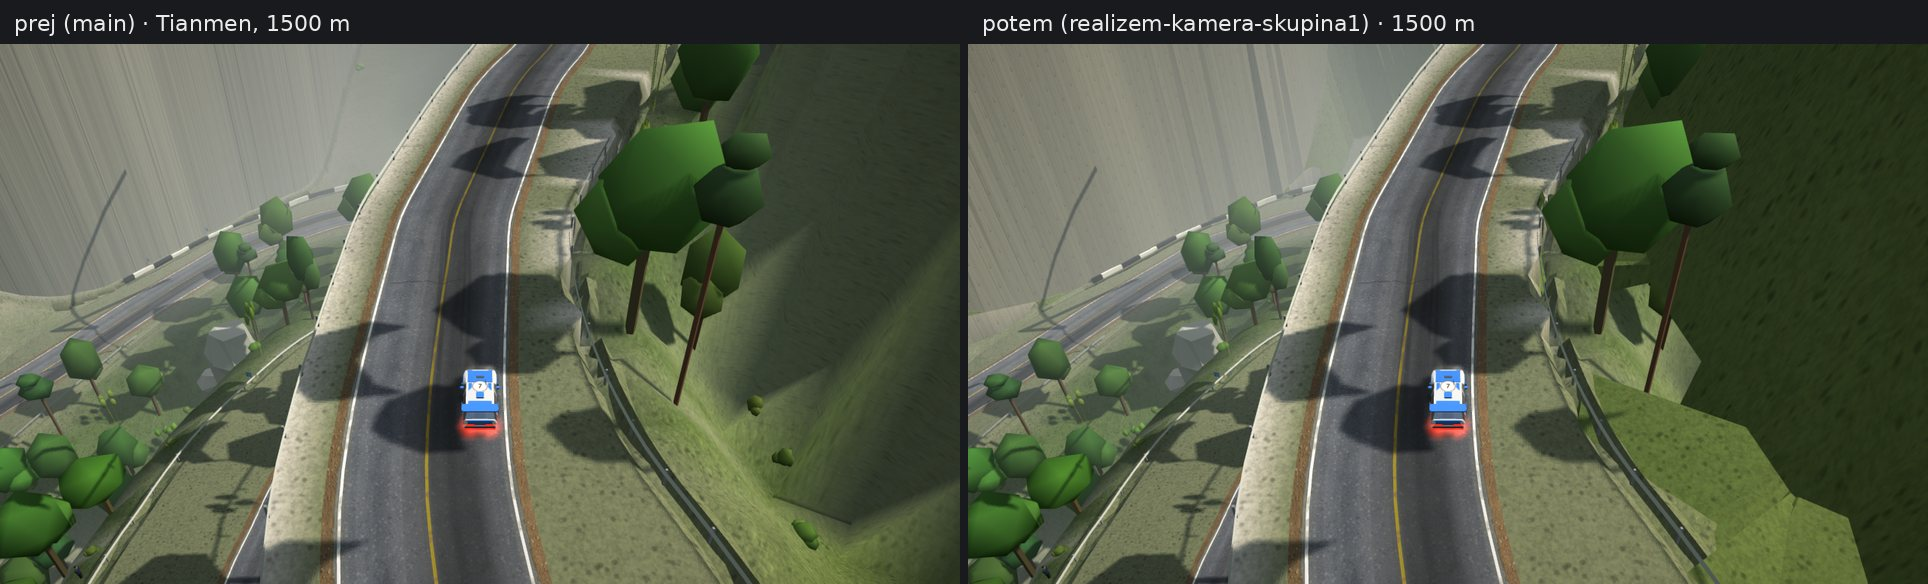
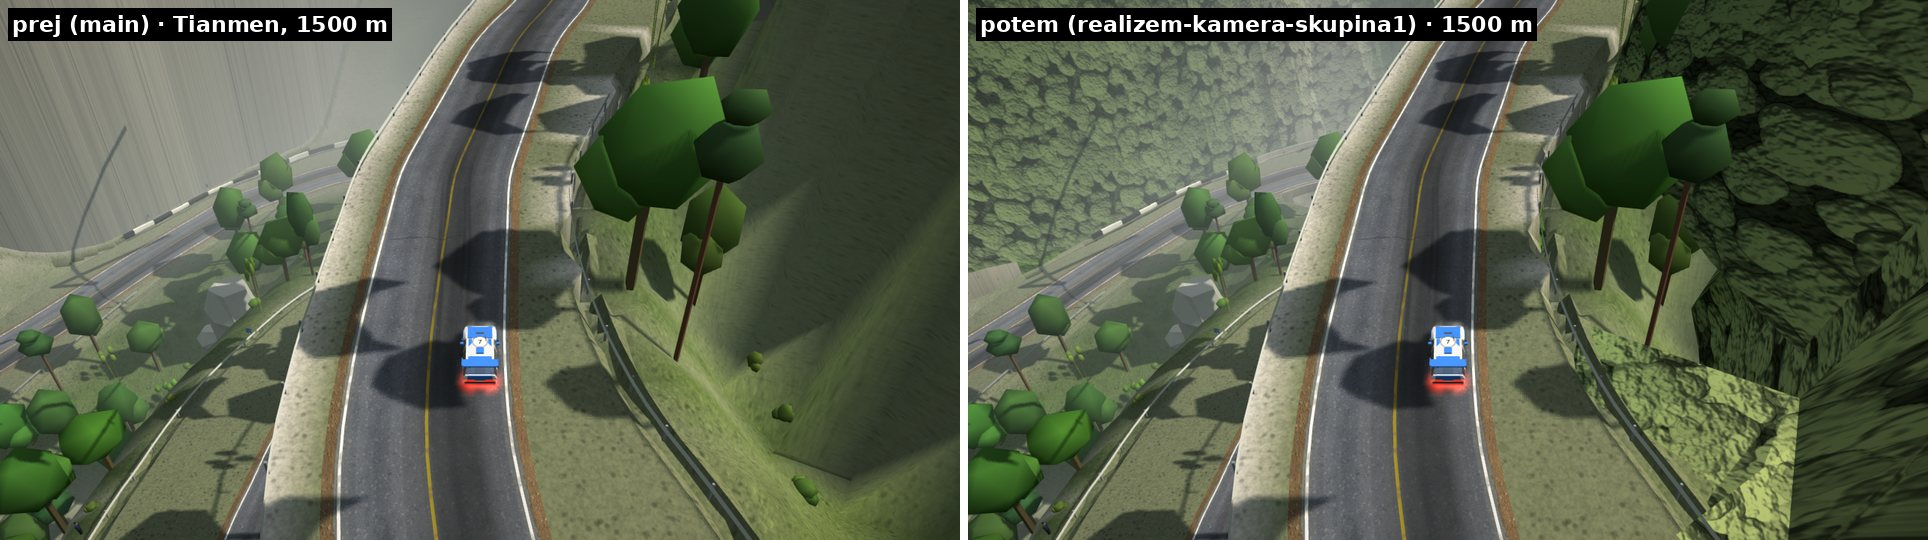
Realizem kamera, skupina 1: Tianmen, porasla kraška stena pod zidom pri ~2200 m
Kjer je stena pod krakom višja od 8,5 m (krak spodaj 50–70 m niže), je zid
samo zgornjih 6 m, spodaj pa porasla kraška stena: barve in tekstura brežine,
apnenec skozi zelenje, rahlo izbočena (dva pasova). Pri 2390 m globoke reže ni
(prerezi: najniže ~1 m pod cesto); ostane 4–8 m oporni zid zgornjega kraka.
Slike prej/potem za 1500, 2200 in 2390 m; zlato samo za Tianmen.

Claude-Session: https://claude.ai/code/session_01WbgGzusxUpMLC4NsmPdbW6

diff --git a/js/world-realizem1.js b/js/world-realizem1.js
@@ -364,6 +364,9 @@
     // the cost of a profile: the walls' height (a cut face a little more), the steeper slope a little more; the plain wall down to the floor is the last resort
     const cost = (r, H) => !r ? 1e9 : r.full ? H + 0.3 : r.hw + (r.land === 1 ? 1.3 * Math.max(0, r.yL - r.yB) : 0) + 1.5 * (r.m - 0.9);
     const TRY = [[0, 0.9], [0, 1.25], [3, 1.25], [0, 1.7], [3, 1.7], [7, 1.7], [0, 2.3], [7, 2.3], [14, 2.3]];
+    // (deep in a hairpins' stack, the leg below 50-70 m down and 25-40 m out (OSM's line, the road's grade): Tianmen's karst slope, steep and
+    // overgrown, the rock showing through; a wall of the stack's whole height, 25-69 m, the face before the pit ~2200 m, is not there)
+    const TRY2 = TRY.concat([[0, 3.0], [4, 3.0], [0, 3.6], [4, 3.6]]);
     const wall = [[], []];
     let nFull = 0, nLand = 0, nBig = 0;
     for (const side of [-1, 1]) { const si = side > 0 ? 1 : 0, W = isWall[si], hwA = new Float32Array(N), mA = new Float32Array(N), HA = new Float32Array(N);
@@ -371,7 +374,7 @@
         const H = -gAt(i, side, barOf(i, side) + 0.45), q = side * barOf(i, side), nz = P.c4(T.px[i] + T.nx[i] * q, T.pz[i] + T.nz[i] * q);
         const hw0 = clamp(1.8 + 0.18 * H, 2.5, 6.5) + (nz - 0.5) * 1.2; HA[i] = H; hwA[i] = H + 0.3; mA[i] = 2.3;
         let best = H + 0.3;
-        for (const [add, m] of TRY) { const hw = hw0 + add; if (hw >= H + 0.3 || hw + 1.5 * (m - 0.9) >= best) continue;
+        for (const [add, m] of H > 20 ? TRY2 : TRY) { const hw = hw0 + add; if (hw >= H + 0.3 || hw + 1.5 * (m - 0.9) >= best) continue;
           const r = march(i, side, hw, m), c = cost(r, H); if (c < best) { best = c; hwA[i] = hw; mA[i] = m; } } }
       // smoothed along each run of wall (the most of the neighbours', then their mean: never below what each sample needs)
       const filt = (A) => { const mx = new Float32Array(N), o = new Float32Array(N);
@@ -382,7 +385,7 @@
       for (let i = 0; i < N; i++) { if (!W[i]) continue;
         const hw = Math.min(hwS[i], HA[i] + 0.3), r = march(i, side, hw, mS[i]) || { oW: footO(i, side, HA[i] + 0.3), yW: -0.34 - HA[i], hw: HA[i] + 0.3, m: 2.3, full: true };
         if (r.full) { nFull++; if (HA[i] > 6) nBig++; } else if (r.land) nLand++;
-        wall[si][i] = r; } }
+        r.H = HA[i]; wall[si][i] = r; } }
 
     // the profiles (offset from the road's centre, height above it), 8 points: 0 the wall's top, 1 its foot, 2-4 the slope, 5 where it ends, 6-7 on:
     // under the ground; or the cut face's foot (land 1), and over a pit the level ground on to the leg below
@@ -391,8 +394,9 @@
       const L = r.oM - r.oW, yE = r.land ? r.yL : gAt(i, side, r.oM) - 0.05;
       for (const f of [0.2, 0.6, 0.6]) {   // (3 and 4 the same point: three bands of slope, the first, at the wall's foot, narrow)
         const o = r.oW + L * f, q = side * o, b = (P.n4(T.px[i] + T.nx[i] * q, T.pz[i] + T.nz[i] * q) - 0.5) * Math.min(3, 0.6 * Math.min(1, L / 6) + 0.06 * Math.max(0, L - 6));
-        // (a bank not more than 2.5 m over the ground of the elevation model: over a gully it follows the gully down, not one plane across it, ~1500 m)
-        p.push([o, Math.min(lerp(r.yW, yE, f) + b, r.oE ? 1e9 : gAt(i, side, o) + 2.5)]); }
+        // (a bank not more than 2.5 m over the ground of the elevation model: over a gully it follows the gully down, not one plane across it, ~1500 m;
+        // not a slope onto a leg below nor one over the pit of a hairpins' stack, there the ground under it is the legs' levelling, not the land's)
+        p.push([o, Math.min(lerp(r.yW, yE, f) + b, r.land || r.oE || r.H > 15 ? 1e9 : gAt(i, side, o) + 2.5)]); }
       p.push([r.oM, yE]);
       const o6 = r.oM + (r.land === 1 ? 0.3 : 0.4); p.push([o6, r.land === 1 || r.oE ? r.yB : gAt(i, side, o6) - 0.35]);
       const o7 = r.oE ? Math.max(r.oE, o6 + 0.1) : o6 + 0.5; p.push([o7, r.oE ? r.yB : gAt(i, side, o7) - 0.35]);
@@ -414,7 +418,8 @@
       if (fo > 0) { const k = 0.84 + 0.32 * P.n2(x * 0.13, z * 0.13); R = lerp(R, 0.19 * k, fo); G = lerp(G, 0.3 * k, fo); B = lerp(B, 0.115 * k, fo); }
       // (the rock where the land cover has it, ESA WorldCover; elsewhere a fill below the road is overgrown, only its steepest stretches show
       // stones in patches, and not under the forest)
-      const rk = Math.max(sstep(1.9, 2.3, m) * sstep(0.6, 0.85, P.c2(x, z)) * 0.35 * (1 - fo), lc(x, z, 2) * 0.8);
+      // (the steepest, 70 degrees and more down a hairpins' stack: the limestone through the green in patches, under the forest too)
+      const rk = Math.max(sstep(1.9, 2.3, m) * sstep(0.6, 0.85, P.c2(x, z)) * 0.35 * (1 - fo), lc(x, z, 2) * 0.8, sstep(2.5, 3.4, m) * (0.25 + 0.4 * sstep(0.4, 0.75, P.c2(x, z))));
       if (rk > 0) { const k = 0.8 + 0.25 * P.n2(x * 0.6, z * 0.6); R = lerp(R, 0.66 * k, rk); G = lerp(G, 0.65 * k, rk); B = lerp(B, 0.61 * k, rk); }
       if (t < 0.18) { const g = (0.18 - t) / 0.18 * 0.55 * (1 - 0.6 * fo); R = lerp(R, 0.5, g); G = lerp(G, 0.48, g); B = lerp(B, 0.43, g); }
       return [R * TX, G * TX, B * TX]; };
@@ -431,7 +436,7 @@
     const wuv = (p) => [(p[0] + 0.55 * p[1]) / 20, (-p[2] - 0.3 * p[1]) / 20];   // (the height in it too: a steep face not streaked down its fall line)
     const puv = (u, q) => [u, (q[0] - 0.85 * q[1]) / 20];   // a slope's own: along the road, and down its profile (offset and depth)
     const fl = [];   // the slopes' cross-sections for the camera's floor: [x, y, z] per profile point, per sample and side
-    let verts = 0;
+    let verts = 0, nFace = 0;
     const add = (g, mat) => { if (g.empty) return; const m = new THREE.Mesh(g.geometry(), mat); m.receiveShadow = true; m.castShadow = false; m.matrixAutoUpdate = false; m.updateMatrix(); out.root.add(m); verts += m.geometry.attributes.position.count; };
     const end6 = (r) => r && (r.full || r.oE);   // (the last band: the plain wall's skirt, the level ground over a pit; else under the ground, left out)
     const near0 = (a, b) => Math.abs(a[0] - b[0]) + Math.abs(a[1] - b[1]) + Math.abs(a[2] - b[2]) < 0.03;
@@ -445,8 +450,29 @@
         const ri = W[i] ? wall[si][i] : null, rj = W[j] ? wall[si][j] : null, yIn = Math.min(pi[1][1], pj[1][1]), u0 = sTop[si][i] / 4, u1 = sTop[si][j] / 4;
         const wq = (k, inside) => gw.quadO(A[k], A[k + 1], B[k + 1], B[k], null, inside, [[u0, -A[k][1] / 4], [u0, -A[k + 1][1] / 4], [u1, -B[k + 1][1] / 4], [u1, -B[k][1] / 4]],
           [wallCol(A[k][0], A[k][2], i, si, false), wallCol(A[k + 1][0], A[k + 1][2], i, si, true), wallCol(B[k + 1][0], B[k + 1][2], j, si, true), wallCol(B[k][0], B[k][2], j, si, false)]);
-        // the wall's face, out from under the road
-        wq(0, Pt(i, side * (barOf(i, side) - 2), yIn * 0.5));
+        // the wall's face, out from under the road; a tall one (deep in a hairpins' stack, the leg below 50-70 m down, ~2200 m) a wall only its
+        // top 6 m, below that Tianmen's karst face: the slope's map and colours, the limestone through the green, bulging a little (its offsets
+        // kept between the wall's top and foot: never out over the leg below)
+        const fc = (p, ii) => { const h = -0.04 - p[1][1], R = []; if (!(h > 8.5)) return [p[1]];
+          const oA = p[0][0], oB = Math.max(oA, p[1][0]), am = Math.min(2.5, 0.05 * h);
+          for (let k = 0; k <= 2; k++) { const f = (6 + (h - 6) * k / 2) / h, o0 = lerp(oA, p[1][0], f), q = side * o0;
+            const d = k % 2 ? (P.n4(T.px[ii] + T.nx[ii] * q, T.pz[ii] + T.nz[ii] * q + 37 * k) - 0.5) * 2 * am : 0;
+            R.push([clamp(o0 + d, oA, oB), -0.04 - h * f]); }
+          return R; };
+        const Fi = fc(pi, i), Fj = fc(pj, j), ins0 = Pt(i, side * (barOf(i, side) - 2), yIn * 0.5);
+        if (Fi.length < 2 && Fj.length < 2) wq(0, ins0);
+        else {
+          nFace++;
+          const SA = Pt(i, side * Fi[0][0], Fi[0][1]), SB = Pt(j, side * Fj[0][0], Fj[0][1]);
+          gw.quadO(A[0], SA, SB, B[0], null, ins0, [[u0, -A[0][1] / 4], [u0, -SA[1] / 4], [u1, -SB[1] / 4], [u1, -B[0][1] / 4]],
+            [wallCol(A[0][0], A[0][2], i, si, false), wallCol(SA[0], SA[2], i, si, true), wallCol(SB[0], SB[2], j, si, true), wallCol(B[0][0], B[0][2], j, si, false)]);
+          const U0 = sTop[si][i] / 20, U1 = sTop[si][j] / 20, at = (F, k) => F[Math.min(k, F.length - 1)], fcol = (v) => slopeCol(v[0], v[2], 4, 0.5);
+          const tf = (p, q, r, up, uq, ur, ins) => { if (!near0(p, q) && !near0(q, r) && !near0(p, r)) gs.triO(p, q, r, fcol(p), ins, fcol(q), fcol(r), up, uq, ur); };
+          for (let k = 0; k < 2; k++) { const a0 = at(Fi, k), a1 = at(Fi, k + 1), b0 = at(Fj, k), b1 = at(Fj, k + 1);
+            const PA0 = Pt(i, side * a0[0], a0[1]), PA1 = Pt(i, side * a1[0], a1[1]), PB0 = Pt(j, side * b0[0], b0[1]), PB1 = Pt(j, side * b1[0], b1[1]);
+            const ins = Pt(i, side * (Math.min(a0[0], a1[0], b0[0], b1[0]) - 3), (a0[1] + a1[1] + b0[1] + b1[1]) / 4);
+            tf(PA0, PA1, PB1, puv(U0, a0), puv(U0, a1), puv(U1, b1), ins); tf(PA0, PB1, PB0, puv(U0, a0), puv(U1, b1), puv(U1, b0), ins); }
+        }
         // the slope, the cut face onto the leg below (both ends landing so), the ground on
         const inS = Pt(i, side * (barOf(i, side) - 2), yIn - 30), mi = ri ? ri.m : 2.3, mj = rj ? rj.m : 2.3;
         const cs = (p, m, k) => slopeCol(p[0], p[2], m, (k - 1) / 4);
@@ -475,7 +501,7 @@
       add(gw, wMat); add(gs, sMat);
     }
     out.rz1.walls = isWall[0].reduce((s, v) => s + v, 0) + isWall[1].reduce((s, v) => s + v, 0);
-    out.rz1.full = nFull; out.rz1.big = nBig; out.rz1.land = nLand; out.rz1.verts = verts;
+    out.rz1.full = nFull; out.rz1.big = nBig; out.rz1.land = nLand; out.rz1.verts = verts; out.rz1.face = nFace;
 
     // the camera's floor: the slopes rasterised on a 1.5 m grid (the highest of each cell), so the chase camera stays out of them
     if (fl.length && out.camFloor) {

diff --git a/docs/realizem.md b/docs/realizem.md
@@ -246,7 +246,7 @@ V vrsti so pred novimi progami (vrstice v »Načrtovano«, `docs/vrsta.md`), E p
 | Načrt in odločitve | `docs/realizem-paketi`, #540 | potrjen 8. 11. 2026; ta dokument |
 | E0, prvi kos: obraba asfalta in črte | `realizem/e0-crte-asfalt` | končano 10. 11. 2026; uporabnikov »ok« na slikah (`docs/realizem/e0-*.jpg`) 10. 11. ob ~03.30, na `main` od 11. 11. 2026 s PR #622 (squash `244f7cd7`); jure.kopac26, odločitev uporabnika 10. 11. 2026 ob ~01.40 v pogovoru z Matejem, izbira »Cesta in predmeti E0«; opis v razdelku »E0, prvi kos« |
 | E0, drugi kos: rob ceste, oznake čez cesto, Pikes Peak | `realizem/e0-crte-asfalt` (isti PR #622, ločeni commiti) | končano 10. 11. 2026, uporabnikov »ok« na slikah (`docs/realizem/e0-rob.jpg`, `e0-oznake.jpg`, `e0-pikes.jpg`) 10. 11. ob ~12.30; na `main` od 11. 11. 2026 s PR #622 (squash `244f7cd7`); opis v razdelku »E0, drugi kos« |
-| Kamera za avtom, skupina 1 (Nürburg, Pikes Peak, Tianmen): Tianmen | `realizem-kamera-skupina1`, #798 | osnutek 19. 11. 2026: pod naloženimi kraki betonski oporni zid in brežina do terena namesto do 126 m visokih golih sten (`js/world-realizem1.js`, slike `docs/realizem/kamera1-tianmen-*.jpg`); nasip nad grapo pri 1500 m (vzorci 1556–1574) porasel, skala samo po ESA WorldCover (OSM: tam ni mostu ne prepusta); Nürburg brez spremembe (bregovi v `nrH`, `js/world.js`), Pikes Peak še ni začet. |
+| Kamera za avtom, skupina 1 (Nürburg, Pikes Peak, Tianmen): Tianmen | `realizem-kamera-skupina1`, #798 | osnutek 19. 11. 2026: pod naloženimi kraki betonski oporni zid in brežina do terena namesto golih sten do 126 m, pri ~2200 m (padec 57–64 m) zid samo zgornjih 6 m, pod njim porasla kraška stena; mostova pri ~1090 in ~1690 m (OSM), Pikes Peak sneg in granit nad gozdno mejo (`js/world-realizem1.js`, slike `docs/realizem/kamera1-*.jpg`). Odprto: pri 1500 m ravne ploskve nasipa nad grapo, pri 2390 m prekrivanje ob vznožju 4–8 m opornega zidu zgornjega kraka (globoke reže ni); Nürburg brez spremembe (`nrH`, `js/world.js`). |
 | E0 (ostalo), E1–E4, S0–S2, G0–G4, P1–P6 | `realizem/<korak>` | čaka na tedenski načrt (pon. 9. 11.); E prvi, E1 najprej slike na strani Odločitve; P po #460, #480 in #516 |
 
 ## Viri
